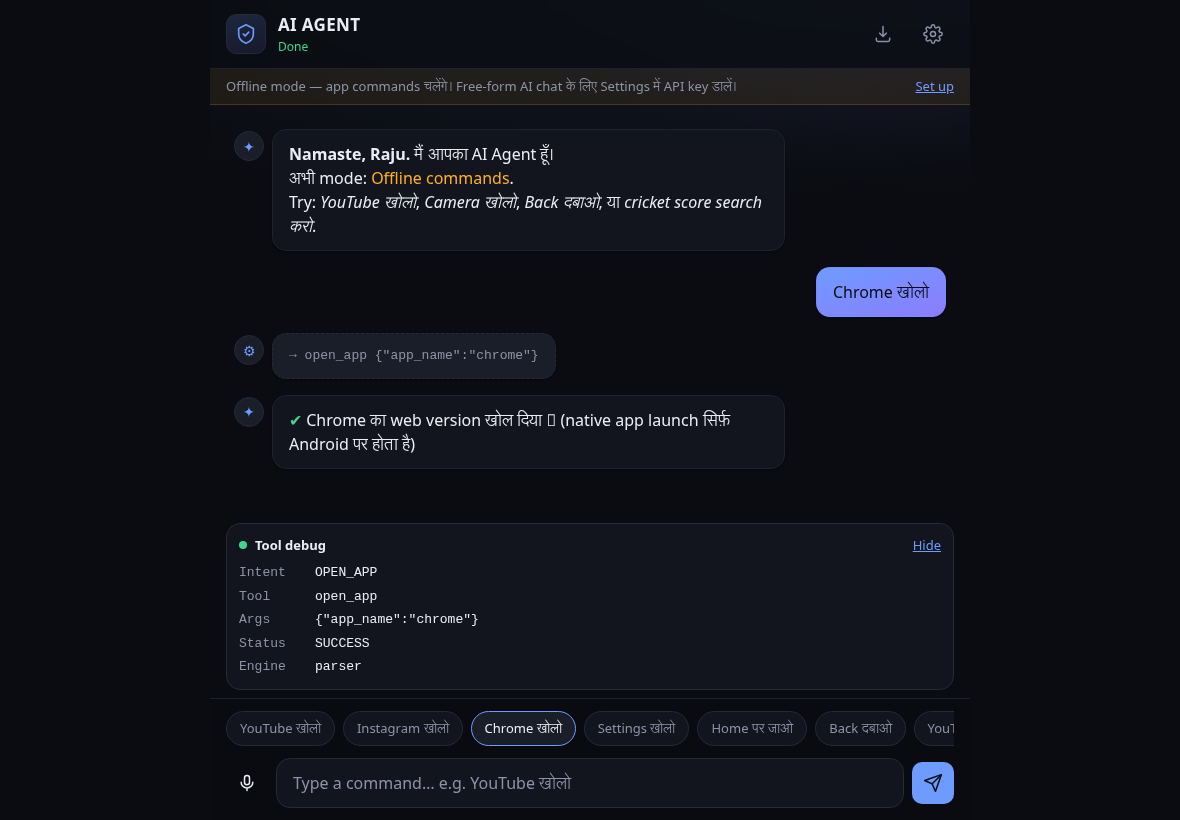
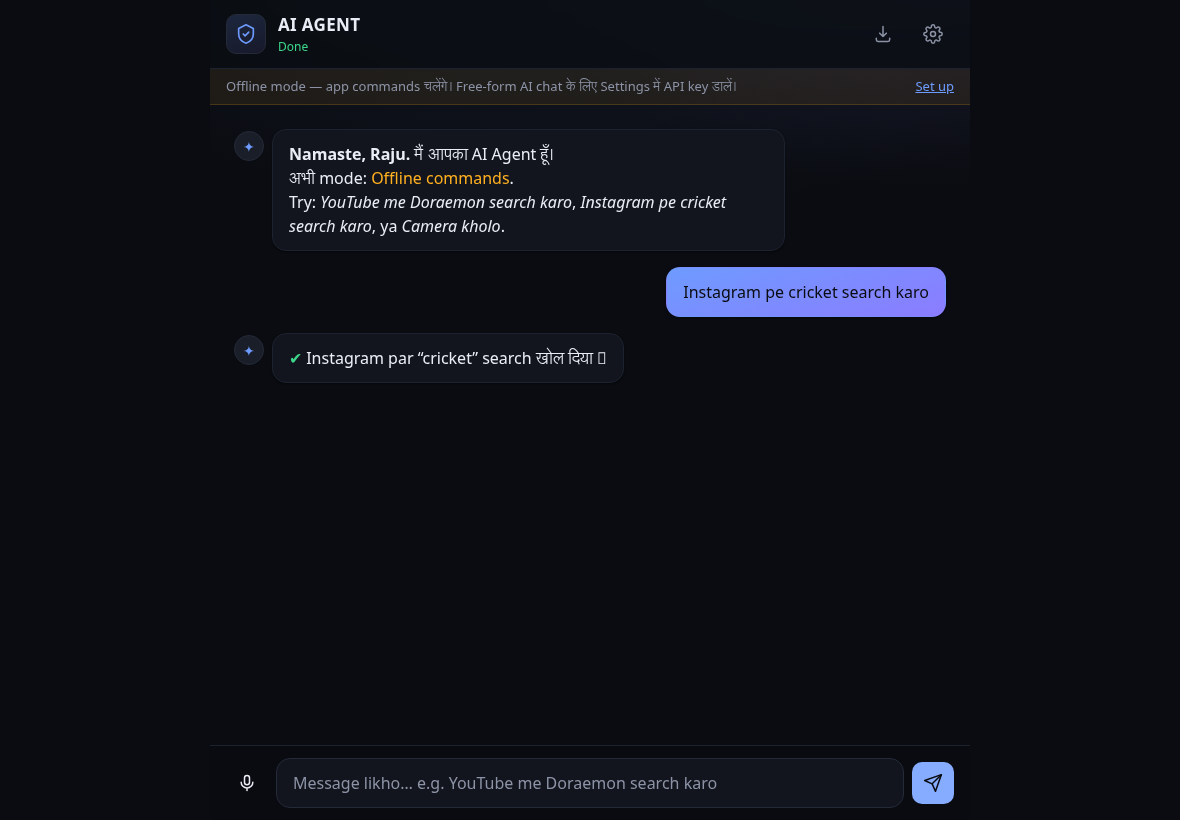
In-app search (YouTube/Instagram/etc. instead of Google), clean chat by default, remove quick-command chips

diff --git a/app.js b/app.js
@@ -11,7 +11,7 @@ const DEFAULT_SETTINGS = {
   apiKey: '',
   model: '',
   baseUrl: 'https://api.openai.com/v1',
-  debug: true,
+  debug: false,
   webFallback: true,
 };
 
@@ -80,7 +80,7 @@ const OPEN_WORDS = ['open', 'kholo', 'khol', 'kholna', 'kholiye', 'launch', 'sta
 const HOME_WORDS = ['home', 'ghar', 'घर', 'होम', 'homescreen'];
 const BACK_WORDS = ['back', 'wapas', 'वापस', 'pichhe', 'पीछे', 'peeche'];
 const VIDEO_WORDS = ['video', 'videos', 'वीडियो', 'विडियो'];
-const SEARCH_WORDS = ['search', 'google', 'dhundo', 'ढूंढो', 'खोजो', 'सर्च'];
+const SEARCH_WORDS = ['search', 'google', 'dhundo', 'dhundho', 'dhoondo', 'dhoondh', 'dhunde', 'khojo', 'khoj', 'ढूंढो', 'ढूँढो', 'खोजो', 'खोज', 'सर्च'];
 const STOP_WORDS = new Set([
   'open', 'kholo', 'khol', 'kholna', 'kholiye', 'launch', 'start', 'chalu', 'chalao', 'चालू',
   'खोलो', 'खोल', 'खोलना', 'खोलिए', 'शुरू', 'ओपन', 'चलाओ', 'चला',
@@ -95,6 +95,26 @@ function extractAppName(t) {
   const tokens = t.split(' ').filter(Boolean);
   const kept = tokens.filter(tok => !STOP_WORDS.has(tok));
   return kept.join(' ').trim();
+}
+
+/* Trailing verbs we strip off a search query: "doraemon search karo" -> "doraemon" */
+const SEARCH_TAIL = /\b(search|dhundo|dhundho|dhoondo|dhoondh|dhunde|khojo|khoj|karo|kro|kr|kar|do|de|dikhao|dekho|dekh|dikha)\b/g;
+
+/**
+ * "<app> me/pe/par <query> search karo"  ->  search INSIDE that app.
+ * This is what stops "YouTube me Doraemon search karo" from going to Google.
+ */
+function parseInAppSearch(t) {
+  if (!has(t, SEARCH_WORDS)) return null;
+  const m = t.match(/^(.*?)\s+(?:me|pe|par|में|पर|मे)\s+(.+)$/);
+  if (!m) return null;
+  const left = m[1].trim();
+  if (!left) return null;
+  const app = resolveApp(left);
+  if (!app) return null;
+  const q = m[2].replace(SEARCH_TAIL, ' ').replace(/\s+/g, ' ').trim();
+  if (!q) return null;
+  return { intent: 'SEARCH_IN_APP', tool: 'search_in_app', args: { app: app.key, query: q } };
 }
 
 /**
@@ -119,6 +139,10 @@ function parseCommand(raw) {
   if (has(t, HOME_WORDS)) {
     return { intent: 'GO_HOME', tool: 'go_home', args: {} };
   }
+
+  // 3b) Search INSIDE a specific app ("youtube me doraemon search karo")
+  const inApp = parseInAppSearch(t);
+  if (inApp) return inApp;
 
   // 4) Web search
   if (has(t, SEARCH_WORDS)) {
@@ -148,6 +172,26 @@ const TOOL_LABELS = {
   press_back: 'Going back…',
   list_youtube_videos: 'Checking YouTube…',
   search_web: 'Searching…',
+  search_in_app: 'Searching in app…',
+};
+
+/* Per-app search URLs (web) and, where a real deep link exists, native Android intents. */
+const enc = encodeURIComponent;
+const APP_SEARCH = {
+  youtube:       { web: q => 'https://www.youtube.com/results?search_query=' + enc(q),
+                   native: q => 'intent://results?search_query=' + enc(q) + '#Intent;scheme=vnd.youtube;package=com.google.android.youtube;S.browser_fallback_url=' + enc('https://www.youtube.com/results?search_query=' + enc(q)) + ';end' },
+  youtube_music: { web: q => 'https://music.youtube.com/search?q=' + enc(q) },
+  instagram:     { web: q => 'https://www.instagram.com/explore/search/keyword/?q=' + enc(q) },
+  spotify:       { web: q => 'https://open.spotify.com/search/' + enc(q),
+                   native: q => 'intent://search/' + enc(q) + '#Intent;scheme=spotify;package=com.spotify.music;S.browser_fallback_url=' + enc('https://open.spotify.com/search/' + enc(q)) + ';end' },
+  playstore:     { web: q => 'https://play.google.com/store/search?q=' + enc(q) + '&c=apps' },
+  maps:          { web: q => 'https://www.google.com/maps/search/' + enc(q) },
+  gmail:         { web: q => 'https://mail.google.com/mail/u/0/#search/' + enc(q) },
+  drive:         { web: q => 'https://drive.google.com/drive/search?q=' + enc(q) },
+  photos:        { web: q => 'https://photos.google.com/search/' + enc(q) },
+  x:             { web: q => 'https://x.com/search?q=' + enc(q) },
+  facebook:      { web: q => 'https://www.facebook.com/search/top?q=' + enc(q) },
+  chrome:        { web: q => 'https://www.google.com/search?q=' + enc(q) },
 };
 
 function isAndroid() { return /Android/i.test(navigator.userAgent); }
@@ -206,6 +250,28 @@ async function executeTool(call) {
           entry.label + ' इस device पर launch नहीं हो सकता (यह Android नहीं है और इसका web version उपलब्ध नहीं है)।');
       }
 
+      case 'search_in_app': {
+        const rawApp = String(args.app || '').trim();
+        const q = String(args.query || '').trim();
+        if (!q) return fail(tool, 'INVALID_PARAMETERS', 'Search query खाली है।');
+        // The AI may send a display name ("YouTube"); resolve it to a registry key.
+        const entry = resolveApp(rawApp);
+        if (!entry) return fail(tool, 'APPLICATION_NOT_FOUND', '“' + rawApp + '” मेरी app list में नहीं है।');
+        const s = APP_SEARCH[entry.key];
+        if (!s) {
+          const fb = 'https://www.google.com/search?q=' + enc(q);
+          openExternal(fb);
+          return { success: true, tool,
+            message: entry.label + ' me direct search support नहीं है — Google पर “' + q + '” search खोल दिया ✅',
+            data: { app: entry.label, query: q, url: fb, fallback: true } };
+        }
+        const url = (isAndroid() && s.native) ? s.native(q) : s.web(q);
+        openExternal(url);
+        return { success: true, tool,
+          message: entry.label + ' par “' + q + '” search खोल दिया ✅',
+          data: { app: entry.label, query: q, url: s.web(q) } };
+      }
+
       case 'search_web': {
         const q = String(args.query || '').trim();
         if (!q) return fail(tool, 'INVALID_PARAMETERS', 'Search query खाली है।');
@@ -250,6 +316,8 @@ const SYSTEM_PROMPT =
   + 'Request at most one tool per turn and only use the declared tools. '
   + 'Never invent shell commands, root commands, hidden APIs, security bypasses or accessibility activation. '
   + 'To open an app use open_app with the user-facing app name. '
+  + 'When the user wants to search INSIDE a specific app (e.g. "YouTube me Doraemon search karo", "search cricket on Instagram"), call search_in_app with that app name and the query — do NOT use search_web for that. '
+  + 'Use search_web only for a general internet search that is not tied to an app. '
   + 'Answer concisely and naturally in the same language the user used (Hindi, Hinglish or English).';
 
 const TOOL_DECLARATIONS = [
@@ -257,6 +325,14 @@ const TOOL_DECLARATIONS = [
     name: 'open_app',
     description: 'Open an installed Android app by its user-facing name (YouTube, Chrome, Instagram, Settings, Camera, Calculator…). The client resolves the installed app and launches it.',
     parameters: { type: 'object', properties: { app_name: { type: 'string', description: 'The app name the user wants to open.' } }, required: ['app_name'] },
+  },
+  {
+    name: 'search_in_app',
+    description: 'Search INSIDE a specific app (YouTube, Instagram, Spotify, Play Store, Maps, Gmail, Drive, Photos, X, Facebook, Chrome). Use this whenever the user names an app and a query to search for in it.',
+    parameters: { type: 'object', properties: {
+      app: { type: 'string', description: 'The app to search in, e.g. YouTube, Instagram, Spotify.' },
+      query: { type: 'string', description: 'What to search for inside that app.' },
+    }, required: ['app', 'query'] },
   },
   {
     name: 'search_web',
@@ -426,7 +502,7 @@ function greeting() {
   const p = activeProvider();
   return '<strong>Namaste, Raju.</strong> मैं आपका AI Agent हूँ।\n'
     + 'अभी mode: <span class="' + (p ? 'ok' : 'warn') + '">' + (p ? p.toUpperCase() + ' (AI on)' : 'Offline commands') + '</span>.\n'
-    + 'Try: <em>YouTube खोलो</em>, <em>Camera खोलो</em>, <em>Back दबाओ</em>, या <em>cricket score search करो</em>.';
+    + 'Try: <em>YouTube me Doraemon search karo</em>, <em>Instagram pe cricket search karo</em>, ya <em>Camera kholo</em>.';
 }
 
 /* ------------------------------ Agent flow ------------------------------- */
@@ -476,7 +552,7 @@ async function runAgent(text) {
 async function runToolFlow(call, engine) {
   setStatus(TOOL_LABELS[call.tool] || 'Running tool…', 'busy');
   setDebug(call.intent, call.tool, call.args, 'REQUESTED', engine);
-  addMessage('tool', '→ ' + call.tool + ' ' + JSON.stringify(call.args));
+  if (settings.debug) addMessage('tool', '→ ' + call.tool + ' ' + JSON.stringify(call.args));
 
   const result = await executeTool(call);
   setDebug(call.intent, call.tool, call.args, result.success ? 'SUCCESS' : 'FAILED', engine);
@@ -503,11 +579,11 @@ async function runLlmFlow(userText) {
       if (out.kind === 'final') { addMessage('assistant', out.text); setStatus('Done', 'ok'); setDebug('AI_TURN', '—', null, 'SUCCESS', provider); return; }
       const call = { intent: out.name.toUpperCase(), tool: out.name, args: out.args };
       setDebug(call.intent, call.tool, call.args, 'REQUESTED', provider);
-      addMessage('tool', '→ ' + call.tool + ' ' + JSON.stringify(call.args));
+      if (settings.debug) addMessage('tool', '→ ' + call.tool + ' ' + JSON.stringify(call.args));
       const result = await executeTool(call);
       setDebug(call.intent, call.tool, call.args, result.success ? 'SUCCESS' : 'FAILED', provider);
       history.push({ role: 'user', parts: [{ functionResponse: { name: call.tool, response: { success: result.success, message: result.message || '', error: result.error || '', data: result.data || {} } } }] });
-      if (result.message) addMessage('tool', '← ' + result.message);
+      if (settings.debug && result.message) addMessage('tool', '← ' + result.message);
     }
     throw new Error('MAX_TOOL_CALLS_EXCEEDED');
   }
@@ -521,11 +597,11 @@ async function runLlmFlow(userText) {
     if (out.kind === 'final') { addMessage('assistant', out.text); setStatus('Done', 'ok'); setDebug('AI_TURN', '—', null, 'SUCCESS', provider); return; }
     const call = { intent: out.name.toUpperCase(), tool: out.name, args: out.args };
     setDebug(call.intent, call.tool, call.args, 'REQUESTED', provider);
-    addMessage('tool', '→ ' + call.tool + ' ' + JSON.stringify(call.args));
+    if (settings.debug) addMessage('tool', '→ ' + call.tool + ' ' + JSON.stringify(call.args));
     const result = await executeTool(call);
     setDebug(call.intent, call.tool, call.args, result.success ? 'SUCCESS' : 'FAILED', provider);
     messages.push({ role: 'tool', tool_call_id: out.toolCallId, content: JSON.stringify({ success: result.success, message: result.message || '', error: result.error || '' }) });
-    if (result.message) addMessage('tool', '← ' + result.message);
+    if (settings.debug && result.message) addMessage('tool', '← ' + result.message);
   }
   throw new Error('MAX_TOOL_CALLS_EXCEEDED');
 }
@@ -577,12 +653,6 @@ el('composerForm').addEventListener('submit', (e) => {
   const v = input.value;
   input.value = '';
   runAgent(v);
-});
-
-el('quickChips').addEventListener('click', (e) => {
-  const b = e.target.closest('.chip');
-  if (!b) return;
-  runAgent(b.dataset.cmd);
 });
 
 // Settings sheet
@@ -762,6 +832,13 @@ el('installHelp').addEventListener('click', (e) => { if (e.target === el('instal
 
 /* -------------------------------- Boot ---------------------------------- */
 function boot() {
+  // One-time: move existing installs to the clean chat view (no raw tool-trace lines).
+  try {
+    if (localStorage.getItem('aiagent.traceOff.v1') !== '1') {
+      localStorage.setItem('aiagent.traceOff.v1', '1');
+      if (settings.debug) { settings.debug = false; saveSettings(); }
+    }
+  } catch {}
   applyDebugVisibility();
   updateModeBanner();
   addMessage('assistant', greeting(), true);

diff --git a/index.html b/index.html
@@ -76,20 +76,11 @@
   </section>
 
   <footer class="composer">
-    <div class="quick-chips" id="quickChips" aria-label="Quick commands">
-      <button class="chip" data-cmd="YouTube खोलो">YouTube खोलो</button>
-      <button class="chip" data-cmd="Instagram खोलो">Instagram खोलो</button>
-      <button class="chip" data-cmd="Chrome खोलो">Chrome खोलो</button>
-      <button class="chip" data-cmd="Settings खोलो">Settings खोलो</button>
-      <button class="chip" data-cmd="Home पर जाओ">Home पर जाओ</button>
-      <button class="chip" data-cmd="Back दबाओ">Back दबाओ</button>
-      <button class="chip" data-cmd="मेरे YouTube videos दिखाओ">YouTube videos</button>
-    </div>
     <form id="composerForm" class="input-row" autocomplete="off">
       <button type="button" id="micBtn" class="icon-btn mic" title="Speak a command" aria-label="Speak a command">
         <svg viewBox="0 0 24 24" width="20" height="20" fill="none" stroke="currentColor" stroke-width="1.8" stroke-linecap="round" stroke-linejoin="round"><rect x="9" y="3" width="6" height="11" rx="3"/><path d="M5 11a7 7 0 0 0 14 0M12 18v3"/></svg>
       </button>
-      <input id="input" class="text-input" type="text" placeholder="Type a command… e.g. YouTube खोलो" aria-label="Command" enterkeyhint="send" />
+      <input id="input" class="text-input" type="text" placeholder="Message likho… e.g. YouTube me Doraemon search karo" aria-label="Command" enterkeyhint="send" />
       <button type="submit" id="sendBtn" class="icon-btn send" title="Send" aria-label="Send">
         <svg viewBox="0 0 24 24" width="20" height="20" fill="none" stroke="currentColor" stroke-width="1.8" stroke-linecap="round" stroke-linejoin="round"><path d="M22 2 11 13"/><path d="M22 2 15 22l-4-9-9-4 20-7Z"/></svg>
       </button>

diff --git a/sw.js b/sw.js
@@ -1,5 +1,5 @@
 /* AI Agent — service worker: offline app shell */
-const CACHE = 'aiagent-shell-v3';
+const CACHE = 'aiagent-shell-v4';
 const ASSETS = [
   './',
   './index.html',
